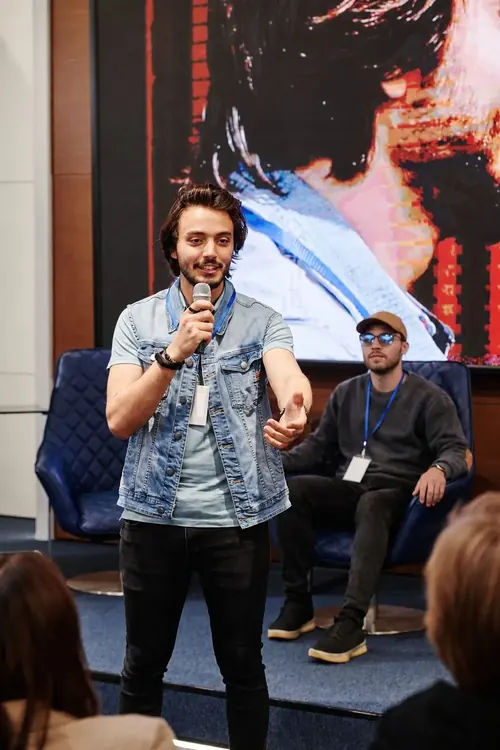
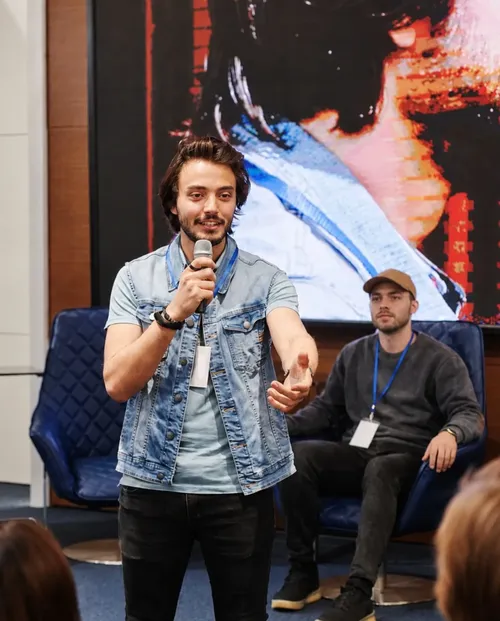
Fotka z pódia: sediaci chalan bez okuliarov

diff --git a/index.html b/index.html
@@ -103,7 +103,7 @@
           </ul>
         </div>
         <div class="show-intro-photo">
-          <img src="img/podium-mikrofon.webp?v=2" srcset="img/podium-mikrofon-500.webp?v=2 500w, img/podium-mikrofon.webp?v=2 800w" sizes="(max-width: 760px) 100vw, 40vw" loading="lazy" alt="Chalan s mikrofónom na pódiu predstavuje kamaráta, ktorý sedí v kresle" width="800" height="1200">
+          <img src="img/podium-mikrofon.webp?v=3" srcset="img/podium-mikrofon-500.webp?v=3 500w, img/podium-mikrofon.webp?v=3 800w" sizes="(max-width: 760px) 100vw, 40vw" loading="lazy" alt="Chalan s mikrofónom na pódiu predstavuje kamaráta, ktorý sedí v kresle" width="800" height="994">
           <p class="hand show-side-note show-intro-hand">Žiadne neosobné profily z appky ani nekonečné swipovanie.</p>
         </div>
       </div>

diff --git a/single-show.html b/single-show.html
@@ -89,7 +89,7 @@
     <section class="section show-program-c" id="program">
       <div class="wrap">
         <div class="pg-banner">
-          <img src="img/podium-mikrofon.webp?v=2" srcset="img/podium-mikrofon-500.webp?v=2 500w, img/podium-mikrofon.webp?v=2 800w" sizes="(max-width: 760px) 100vw, 40vw" alt="Kamoš na pódiu s mikrofónom predstavuje svojho single kamaráta" width="800" height="1200" loading="lazy">
+          <img src="img/podium-mikrofon.webp?v=3" srcset="img/podium-mikrofon-500.webp?v=3 500w, img/podium-mikrofon.webp?v=3 800w" sizes="(max-width: 760px) 100vw, 40vw" alt="Kamoš na pódiu s mikrofónom predstavuje svojho single kamaráta" width="800" height="994" loading="lazy">
           <h2>Ako to prebieha</h2>
         </div>
         <ol class="pg-strip">
